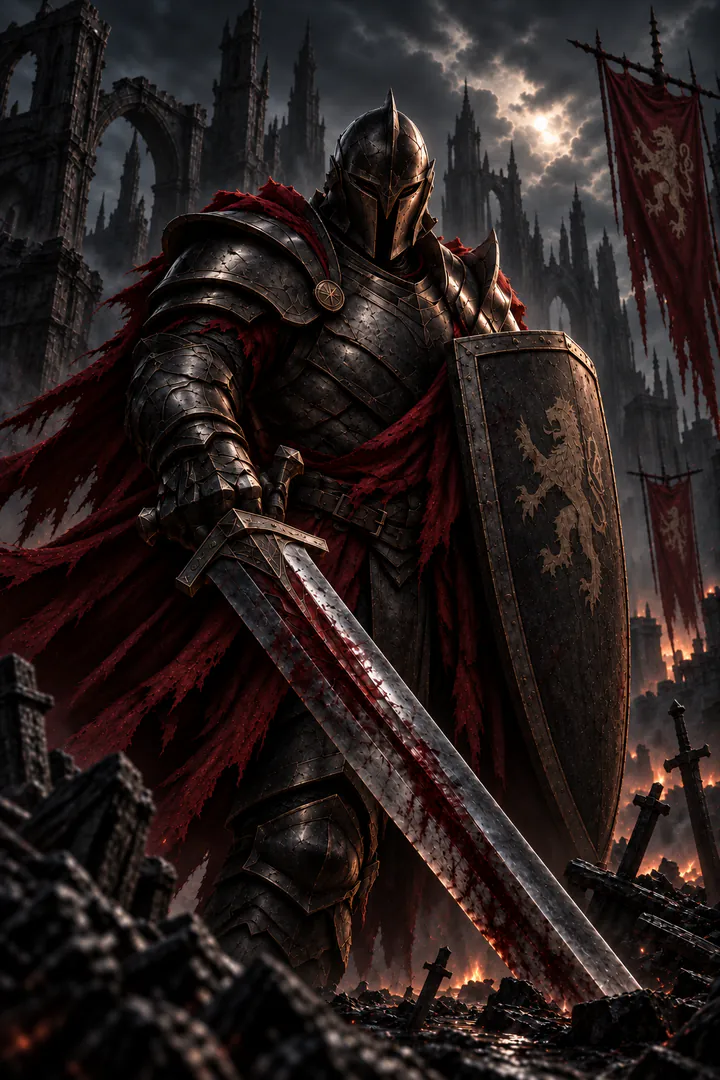
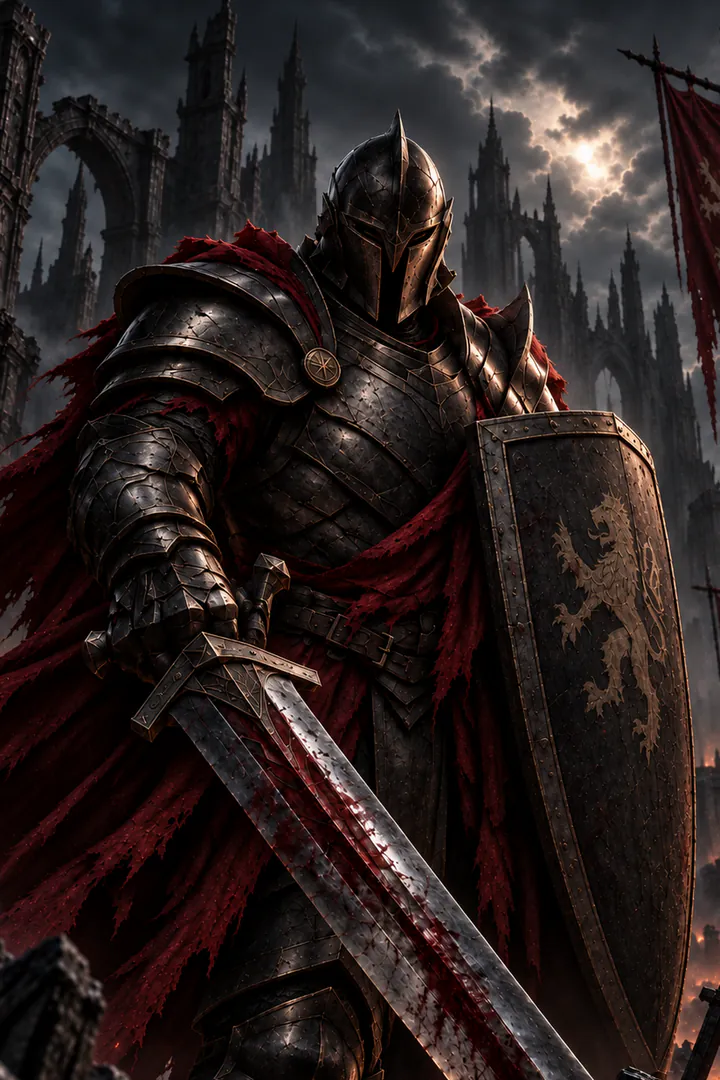
Align the top of every Seeker hero head at the same portrait height
The five class portraits are reframed from the Founder's originals (crop and up to 1.25x
zoom, no repainting) so every head top sits at 10% of the image, giving identical cards
across Heroes, Summon, Team and avatars.

diff --git a/public/assets/heroes/v5/README.md b/public/assets/heroes/v5/README.md
@@ -1,5 +1,6 @@
 # Hero class portraits v5
 
 Founder-supplied class art (upload/xSite/heroes new full 2, 2026-10-06): knight = warrior, shepherd = mage,
-assassin, druid, archer = ranger (crossbowman). One portrait per class serves every rarity; the frame shows rarity.
+assassin, druid, archer = ranger (crossbowman). Each source is reframed (crop + up to 1.25x zoom, no repainting)
+so the top of every head sits at 10% of the image height; unaligned sources are kept in the upload folder. One portrait per class serves every rarity; the frame shows rarity.
 Full art is 720x1080 WebP q80, `thumb/` is 320x480 WebP q78. The previous v4 art stays in `../v4/` for rollback.
